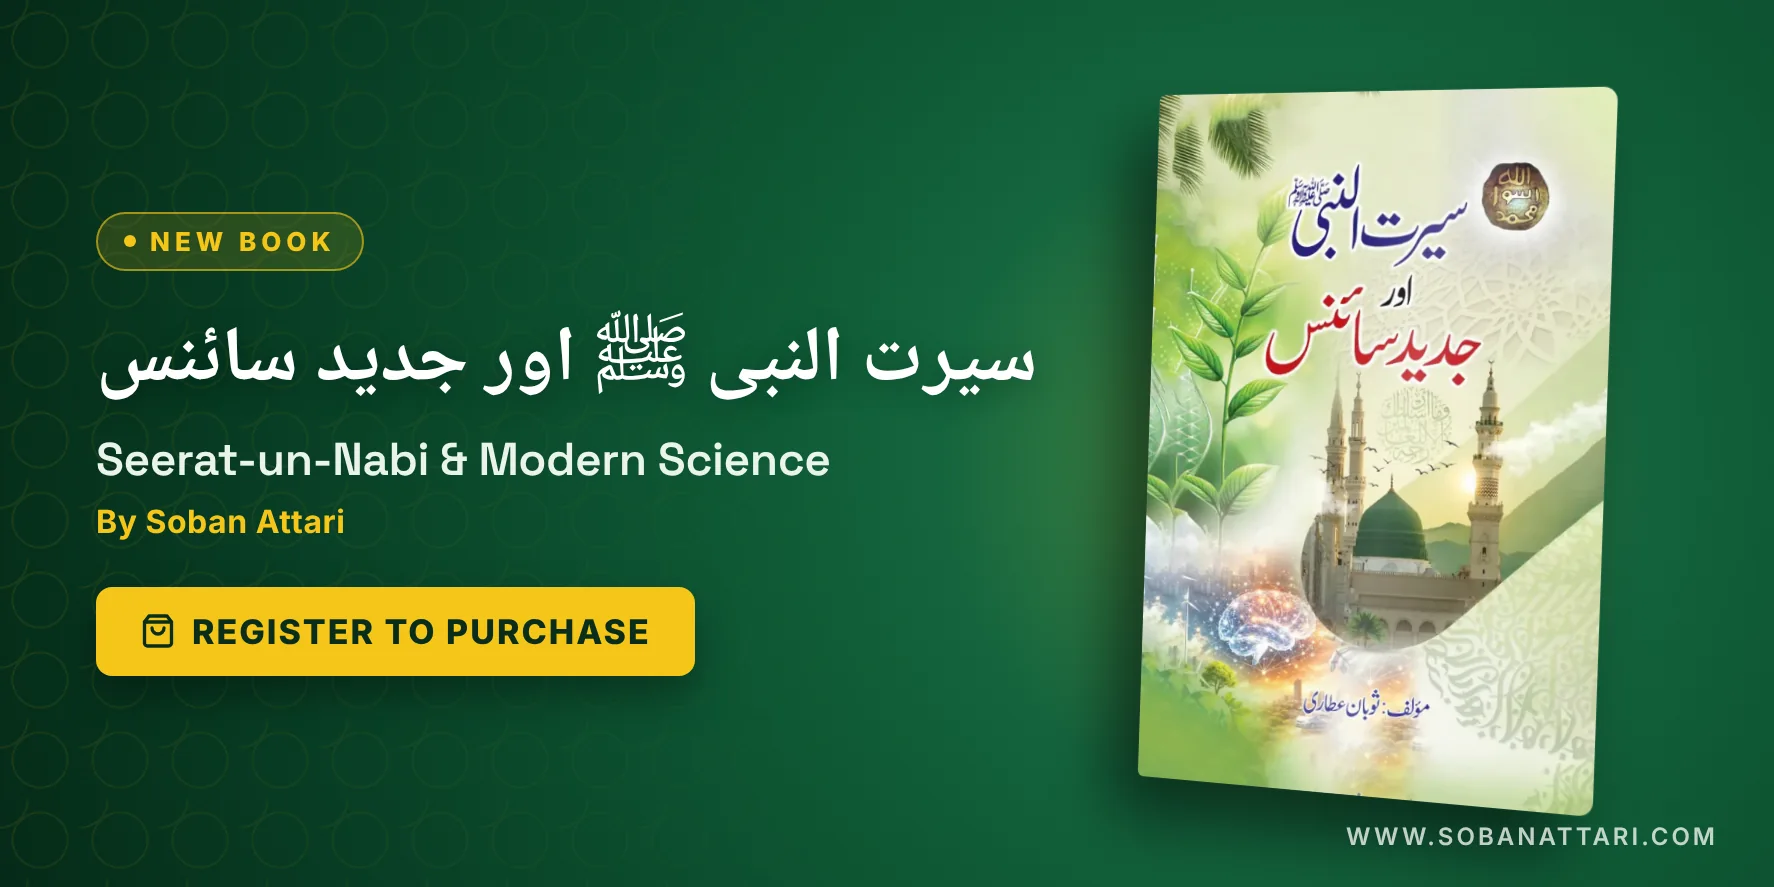
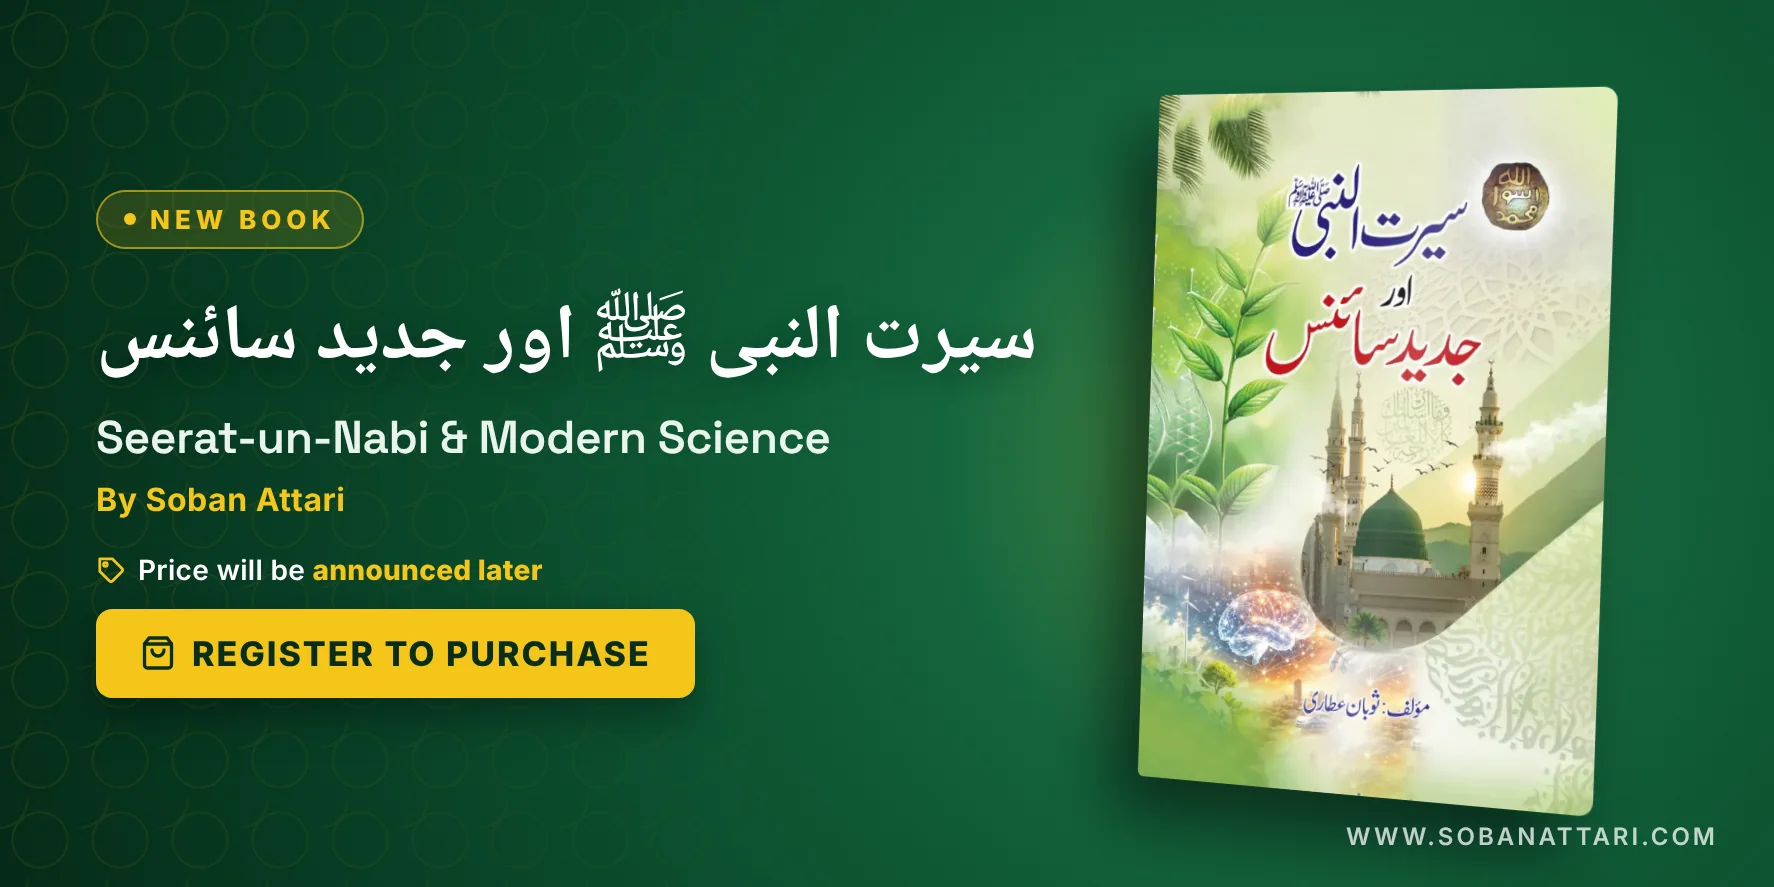
Book: "price will be announced later" and a more visible popup
- Price note on the Updates card image and text, Home/Books book cards
  and the book page ("registrations are open, register to reserve")
- Home page popup gets a new "book" theme: dark green + gold so it
  stands out, book cover in the stub, "Price announced later", one
  gentle shine on entry, larger solid-white close button, shows after
  2.5s; still home page only and compact

Claude-Session: https://claude.ai/code/session_012PAoKQbNjgqr5kFqx3Rji7

Changed region(s): [[0.031, 0.3348, 0.5891, 0.7914], [0.031, 0.2131, 0.217, 0.3044]]

diff --git a/styles.css b/styles.css
@@ -4557,3 +4557,75 @@ h1[lang="ur"], h4[lang="ur"], .bdp-title { font-weight: 700; line-height: 1.5; }
 /* Book "Register to Purchase" buttons point forward, not down */
 .bc-register::after { content: "\2192"; }
 .bc-register:hover::after, .bc-register:focus-visible::after { transform: translateX(3px); }
+
+/* Book: "Price will be announced later" notes */
+.bc-price-note {
+  display: inline-flex; align-items: center; gap: 6px;
+  margin: 6px 0 10px; font-size: 12.5px; font-weight: 600; line-height: 1.4;
+  color: var(--text-body);
+}
+.bc-price-note::before { content: ""; width: 7px; height: 7px; border-radius: 50%; background: var(--accent); flex-shrink: 0; }
+.bdp-price-note {
+  flex-basis: 100%; margin: 6px 0 0; font-size: 14px; line-height: 1.6; color: var(--text-body); text-align: left;
+}
+.bdp-price-note b { color: var(--text-dark); }
+
+/* ---- Floating card: "book" theme (Seerat & Science) ----
+   Dark green + gold so it stands out on the white page, with the book
+   cover in the stub, a gentle one-time shine, and a large, clear close. */
+.evf-item[data-theme="book"] {
+  --t-stub: linear-gradient(165deg, #FFD95A 0%, #F5C518 50%, #E0A800 100%);
+  --t-stub-ink: #0a2e1a;
+  --t-month: #0a2e1a;
+  --t-body: linear-gradient(135deg, #0F5A36 0%, #0A4127 60%, #072E1B 100%);
+  --t-title: #ffffff;
+  --t-fact: #FFE48A;
+  --t-chip-bg: #F5C518;
+  --t-chip-ink: #0a2e1a;
+  --t-btn-bg: #F5C518;
+  --t-btn-ink: #0a2e1a;
+  --t-btn-hover: #FFD95A;
+  --t-link: #ffffff;
+  --t-link-line: #F5C518;
+  --t-perf: rgba(10, 46, 26, 0.35);
+  --t-close-bg: #ffffff;
+  --t-glow: rgba(7, 46, 27, 0.55);
+}
+.evf-item[data-theme="book"] .evf-ticket { box-shadow: inset 0 0 0 1.5px rgba(245, 197, 24, 0.55); border-radius: 16px; }
+.evf-item[data-theme="book"] .evf-note { color: rgba(255, 255, 255, 0.82); }
+.evf-item[data-theme="book"] .evf-day-word:empty { display: none; }
+.evf-item[data-theme="book"] .evf-month { margin-top: 6px; font-size: 10px; font-weight: 800; letter-spacing: 1px; text-transform: uppercase; }
+.evf-cover {
+  display: block; width: 46px; height: auto; border-radius: 3px;
+  transform: rotate(-5deg);
+  box-shadow: 0 6px 14px rgba(10, 46, 26, 0.45), 0 0 0 2px #ffffff;
+}
+/* close: solid white circle with a dark ✕ — easy to see and tap */
+.evf-item[data-theme="book"] .evf-close {
+  width: 32px; height: 32px; color: #0a2e1a;
+  box-shadow: 0 2px 8px rgba(0, 0, 0, 0.3);
+}
+.evf-item[data-theme="book"] .evf-close:hover { background: #F5C518; }
+.evf-item[data-theme="book"] .evf-close:focus-visible { outline-color: #F5C518; }
+.evf-item[data-theme="book"] .evf-close svg { stroke-width: 2.6; }
+.evf-item[data-theme="book"] .evf-btn { box-shadow: 0 6px 16px -6px rgba(245, 197, 24, 0.7); }
+/* one gentle shine across the card when it appears */
+.evf-item[data-theme="book"] .evf-body { position: relative; overflow: hidden; }
+.evf-item[data-theme="book"] .evf-body::after {
+  content: ""; position: absolute; top: 0; bottom: 0; left: -60%; width: 45%;
+  background: linear-gradient(100deg, transparent, rgba(255, 255, 255, 0.16), transparent);
+  transform: skewX(-18deg); opacity: 0; pointer-events: none;
+}
+.evf-dock.is-in .evf-item[data-theme="book"] .evf-body::after { animation: evfShine 1.4s ease 0.7s 2; }
+@keyframes evfShine {
+  0%   { left: -60%; opacity: 1; }
+  100% { left: 130%; opacity: 1; }
+}
+@media (min-width: 641px) {
+  .evf-dock:has(.evf-item[data-theme="book"]) { width: 400px; }
+  .evf-cover { width: 58px; }
+  .evf-item[data-theme="book"] .evf-close { width: 34px; height: 34px; }
+}
+@media (prefers-reduced-motion: reduce) {
+  .evf-dock.is-in .evf-item[data-theme="book"] .evf-body::after { animation: none; }
+}

diff --git a/main.js b/main.js
@@ -979,16 +979,15 @@
       id: 'seerat-science-book',
       showFrom:  '2026-11-01T00:00:00+05:00',
       showUntil: '2027-12-31T23:59:00+05:00',
-      theme: 'gold',
-      icon: 'book',
-      stubTop: 'New',
-      stubBottom: 'Book',
-      chip: 'Book',
+      theme: 'book',
+      cover: '/brand_assets/seerat-e-mustafa-book-title-opt.webp',
+      stubBottom: 'New Book',
+      chip: 'New Book',
       title: 'Seerat & Modern Science',
-      meta: [{ icon: 'book', text: 'Urdu · 154 pages' }],
-      note: 'New book by Soban Attari · Register to purchase',
+      meta: [{ icon: 'ticket', text: 'Price announced later' }],
+      note: 'By Soban Attari. Registrations are open — register now to reserve your copy.',
       href: '/seerat-mustafa-modern-science/',
-      primary: { label: 'Register', href: 'https://forms.gle/jwZgS352GqtLy6Gr8', external: true },
+      primary: { label: 'Register Now', href: 'https://forms.gle/jwZgS352GqtLy6Gr8', external: true },
       secondary: { label: 'Details', href: '/seerat-mustafa-modern-science/' }
     },
     {
@@ -1022,7 +1021,7 @@
       secondary: { label: 'Details', href: '/events/deeni-tulba-mega-session-nov-2026/' }
     }
   ];
-  const SHOW_DELAY_MS = 4000;
+  const SHOW_DELAY_MS = 2500;
 
   (function setupFloatingEvents() {
     const path = location.pathname;
@@ -1106,7 +1105,9 @@
           (ev.href ? ' data-href="' + esc(ev.href) + '"' : '') + ' aria-labelledby="' + tid + '">' +
         '<div class="evf-ticket">' +
           '<div class="evf-stub" aria-hidden="true">' +
-            (FILLED_ICONS[ev.icon]
+            (ev.cover
+              ? '<img class="evf-cover" src="' + esc(ev.cover) + '" alt="" width="60" height="90">'
+              : FILLED_ICONS[ev.icon]
               ? '<span class="evf-stub-icon">' + FILLED_ICONS[ev.icon](30) + '</span>'
               : ICONS[ev.icon || 'ticket']
               ? '<span class="evf-stub-icon">' + icon(ev.icon || 'ticket', 26) + '</span>'
@@ -1120,7 +1121,7 @@
           '<div class="evf-body">' +
             '<div class="evf-head">' +
               '<h3 class="evf-title" id="' + tid + '">' + esc(ev.title) + '</h3>' +
-              '<button type="button" class="evf-close" aria-label="Hide ' + esc(ev.title) + '">' + icon('close', 15) + '</button>' +
+              '<button type="button" class="evf-close" aria-label="Close" title="Close">' + icon('close', ev.cover ? 18 : 15) + '</button>' +
             '</div>' +
             '<p class="evf-meta">' +
               (ev.start

diff --git a/seerat-mustafa-modern-science/index.html b/seerat-mustafa-modern-science/index.html
@@ -107,6 +107,7 @@
             <svg viewBox="0 0 24 24" fill="none" stroke="currentColor" stroke-width="2.2" stroke-linecap="round" stroke-linejoin="round" aria-hidden="true"><path d="M6 2 3 6v14a2 2 0 0 0 2 2h14a2 2 0 0 0 2-2V6l-3-4z"/><path d="M3 6h18"/><path d="M16 10a4 4 0 0 1-8 0"/></svg>
             Register to Purchase<span class="evf-sr"> (opens in a new tab)</span>
           </a>
+          <p class="bdp-price-note" lang="en" dir="ltr"><b>Price will be announced later.</b> We are taking registrations now &mdash; register to reserve your copy.</p>
         </div>
 
         <div class="bdp-meta-grid" lang="en" dir="ltr">

diff --git a/updates/index.html b/updates/index.html
@@ -113,7 +113,8 @@
             <div class="event-teaser-body">
               <span class="section-label">New Book</span>
               <h3><span lang="ur" dir="rtl">سیرت النبی ﷺ اور جدید سائنس</span></h3>
-              <div class="event-teaser-time">By Soban Attari &middot; Register to get your copy</div>
+              <div class="event-teaser-time">By Soban Attari</div>
+              <span class="event-teaser-soon">Price will be announced later &middot; Register now</span>
               <span class="event-teaser-cta">Register to Purchase</span>
             </div>
           </article>

diff --git a/index.html b/index.html
@@ -375,6 +375,7 @@
         </div>
         <div class="book-card-body">
           <h4 lang="ur" dir="rtl">سیرت النبی ﷺ اور جدید سائنس</h4>
+          <p class="bc-price-note">Price will be announced later</p>
           <div class="book-card-actions"><a class="bc-live bc-register" href="https://forms.gle/jwZgS352GqtLy6Gr8" target="_blank" rel="noopener">Register to Purchase<span class="evf-sr"> (opens in a new tab)</span></a><a class="bc-more" href="/seerat-mustafa-modern-science/">Details</a></div>
         </div>
       </div>

diff --git a/books/index.html b/books/index.html
@@ -98,6 +98,7 @@
         </div>
         <div class="book-card-body">
           <h4 lang="ur" dir="rtl">سیرت النبی ﷺ اور جدید سائنس</h4>
+          <p class="bc-price-note">Price will be announced later</p>
           <div class="book-card-actions"><a class="bc-live bc-register" href="https://forms.gle/jwZgS352GqtLy6Gr8" target="_blank" rel="noopener">Register to Purchase<span class="evf-sr"> (opens in a new tab)</span></a><a class="bc-more" href="/seerat-mustafa-modern-science/">Details</a></div>
         </div>
       </div>
